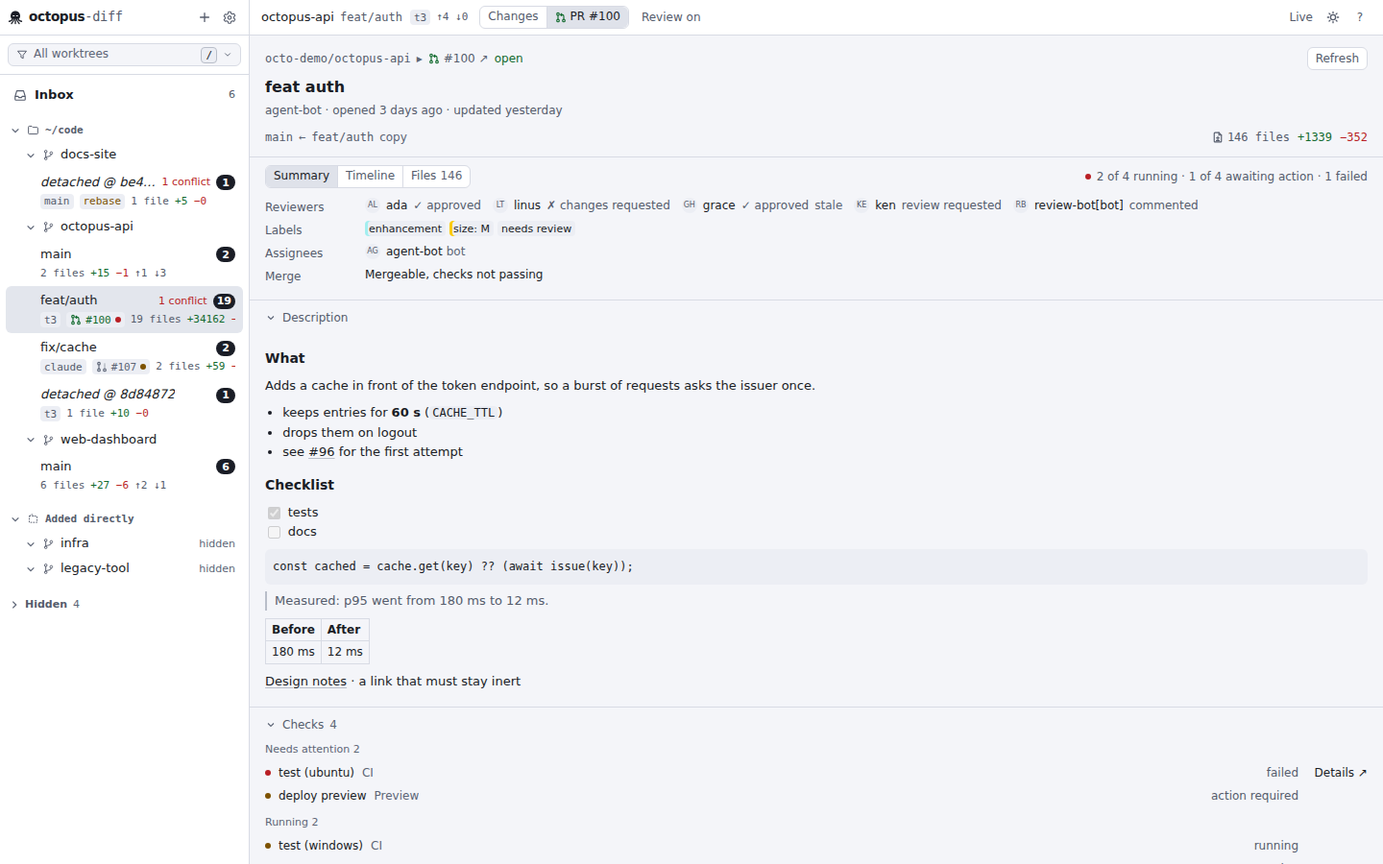
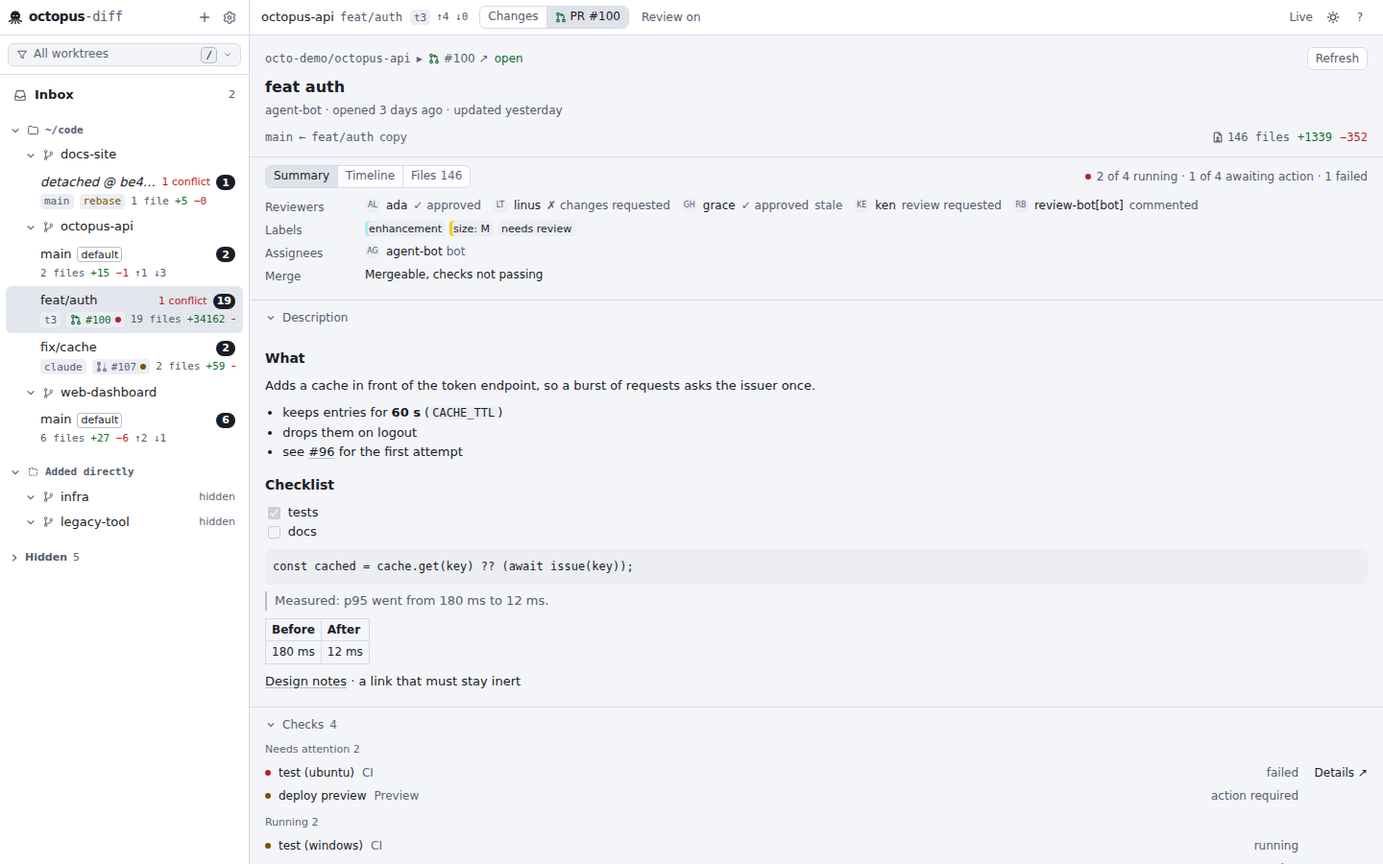
docs: overview lists design record, DECISIONS #127-#133, PLAN §4.2, FORGES, IDENTITY, README, screenshots (overview-branches new), report

diff --git a/docs/OVERVIEW-LISTS.md b/docs/OVERVIEW-LISTS.md
@@ -1,0 +1,126 @@
+# Project Overview lists and the default-branch marker (design)
+
+> Lead, 2026-11-09, branch `ux/toolbar-hierarchy` (on top of PR #2). Brief from the user:
+>
+> - Add a design highlight to the default branch when listing worktrees.
+> - In the repo (project) Overview: limit the worktree listing to 15 and paginate; limit the open pull requests to
+>   15 (keep the "more on GitHub" link); list the local branches that have no worktree; find out whether tab
+>   navigation would be better; use TanStack Table if and only if it makes the code easier to maintain.
+>
+> Decisions #127–#133 in `docs/DECISIONS.md`.
+
+## 1. What was there
+
+The project Overview was one long page: header, Local and Forge facts, the figures row, the worktree table (every
+worktree, recency order), then "Open pull requests" (the newest 20 the forge returned) and a `N more on github.com ↗`
+link. Nothing listed branches; the Local facts only counted them (`7 branches · 4 tags · 4 worktrees`). The
+worktree whose branch is the project's default branch looked like any other row; the main checkout carried a faint
+`main` word, so the default row read `main main`.
+
+## 2. The default-branch marker
+
+The default branch is the baseline: every `↑a ↓b`, "merged" and review range is measured against it. It now carries
+an **outlined ink chip, `default`** (`.od-chip-default`: transparent fill, `lineStrong` inset ring, `fg` text, 500
+weight), right after the branch name:
+
+- **Sidebar rows**: inline on the name line, so it costs no extra line (the meta line below is unchanged).
+- **Context bar**: before the other chips.
+- **Overview worktree table**: after the name; the row also gets `data-default="true"`.
+
+Why a chip and not a colour or an icon: the frame is achromatic (IDENTITY §3), so a hue is off the table; an icon
+would need a legend. The other chips are filled grey *facts* (`t3`, `claude`, `rebase`); the outline makes this one
+read as a *label* and keeps it from looking like a worktree source. It shows only when a worktree has the default
+branch checked out (`worktree.branch === project.defaultBranch`), never on detached heads.
+
+The faint `main` word in the Overview's first cell is gone: the **Source** column now says `main checkout` for the
+main worktree (it said `–`), so the default row reads `main [default] · main checkout` instead of `main main`.
+
+## 3. Tabs: yes
+
+**Question asked:** would tab navigation be better than the long page?
+
+With branches added, the page would stack three lists of up to 15 rows each under ~330 px of facts and figures;
+the open requests are two lines a row, so the last list started about three screens down, and each pager would sit
+far from the others. The three lists answer different questions (what is checked out, what is lying around, what is
+under review on the forge), and nobody reads them together. So the lists now sit behind a **segmented tab list**
+under the figures row:
+
+```
+Worktrees 4 | Branches 18 | Pull requests 27
+```
+
+- The **counts** keep the summary that the long page gave by scrolling: you see that 18 branches have no worktree
+  without opening the tab.
+- **Facts and figures stay above** the tabs: they are the summary of the project, not a list.
+- **Worktrees** is the default tab (the Overview's main job). The chosen tab is component state: it survives moving
+  between projects (compare the same list across repositories), not a reload. The page of each list starts over
+  per project.
+- **Pull requests** (or **Merge requests**) appears only when the forge returned repository data; **Branches** is
+  hidden only when a daemon answered without a branch list (older daemons).
+- **Keyboard** (the other reading of "tab navigation"): the tab list follows the WAI-ARIA tabs pattern, one Tab
+  stop for the list (roving `tabIndex`), `←`/`→` move and select, `Home`/`End` jump, each tab `aria-controls` its
+  `tabpanel`. Paging also bounds the Tab order inside a list to 15 row buttons. The Request view's
+  `Summary | Timeline | Files` used `role="tab"` without the keyboard model; it now uses the same component
+  (`components/Tabs.tsx`, `SegmentedTabs`).
+
+Not done: the tab in the URL or the view state (no deep links exist yet for any Overview state) and a palette
+command per tab. Both are small if wanted.
+
+## 4. Pagination
+
+- `components/Pager.tsx`: `usePage(items, 15)` slices an already-loaded list; `<Pager>` shows `16–30 of 42` and
+  previous / next ghost icon buttons, and renders nothing for a single page. The page **clamps** when the list
+  shrinks (live updates must not throw you back to page 1 on every poll).
+- **Worktrees**: 15 a page, the **default-branch worktree first**, then recency (DECISIONS #125). Pinning it first
+  keeps the baseline on page 1, where the highlight is useful; the sidebar keeps pure recency.
+- **Pull requests**: the newest **15** of what the forge returned (the daemon asks for 20), **no pager**: the forge
+  is where the rest lives, so the link stays: `12 more on github.com ↗` (`/pulls`, or `/-/merge_requests`). With
+  none open, the tab says so and links to the full list.
+- **Branches**: 15 a page.
+
+## 5. Branches without a worktree
+
+Data: `GitRepositoryInfo.branches` (contracts, additive, optional): every local branch, newest commit first, capped at
+`MAX_LISTED_BRANCHES` (500; `localBranches` keeps the full count and the tab says "only the 500 newest of N are
+read"). git-core fills it from the **same `for-each-ref`** it already ran for the counts (new atoms:
+`upstream:track,nobracket` and `contents:subject`) plus **one** `for-each-ref --merged=<default-oid> refs/heads/`.
+No new process per branch, nothing fetched. The web removes the branches some worktree has checked out.
+
+Each row: the branch (mono, with a copy button on hover / focus), the last commit (short sha and subject), when it
+moved, the upstream (`origin ↑2 ↓0`; the remote alone when the upstream has the branch's own name, the full name
+otherwise; `gone` in `warn` when the upstream was deleted and pruned; `local only` without one) and a state column:
+`merged` (reachable from the default branch: a clean-up candidate), `default` (the default branch itself, when no
+worktree has it checked out) and the open request whose head is that branch in this repository (`#300 ↗`, from the
+forge data already loaded, no extra query). Rows do not navigate: there is nothing to open without a worktree, and
+octopus-diff never creates one (read-only).
+
+## 6. TanStack Table: no
+
+Weighed objectively against what these tables need today:
+
+| Need | Plain JSX + `usePage` | TanStack Table v8 |
+|---|---|---|
+| Pagination | `usePage`: 10 lines, one hook shared by both paged lists | `getPaginationRowModel` + state wiring per table |
+| Sorting, filtering, column visibility, resizing, grouping | not needed (fixed orders: default first, recency, newest) | its real strength, unused |
+| Cells | JSX in place, read top to bottom | the same JSX moved into `columnHelper.accessor(..., { cell })` definitions, rendered back through `flexRender` |
+| Dependencies | none | `@tanstack/react-table` (+ `table-core`), a credits entry |
+| Tests and e2e | unchanged selectors | unchanged |
+
+Four small tables (folder repositories, project worktrees, branches, open requests), each with fixed columns and a
+fixed order. TanStack Table is headless: it would not remove a single cell renderer, it would add column definitions
+around them and a dependency, to replace a `slice`. **Revisit** when a table needs user sorting, column choice or
+filtering (for example sortable worktree columns), or when the tables start to share behaviour beyond paging; then
+the column-definition indirection pays for itself.
+
+## 7. Files
+
+- `packages/contracts`: `GitBranchInfoSchema`, `GitRepositoryInfo.branches?`, `MAX_LISTED_BRANCHES`; test ids
+  `overviewTab`, `overviewBranchRow`, `pager`, `defaultBranchChip`.
+- `packages/git-core/src/repository.ts`: branch list, `parseUpstreamTrack`; test in `test/repository.test.ts`.
+- `apps/web`: `components/Tabs.tsx` and `components/Pager.tsx` (new), `Overview.tsx` (`ProjectOverview` tabs,
+  `WorktreeTable`), `RepositoryInfo.tsx` (`LocalBranches`, `OpenRequests` capped), `WorktreeChips.tsx`
+  (`DefaultBranchChip`), `Sidebar.tsx`, `ContextBar.tsx`, `request/RequestView.tsx` (shared tabs), `lib/model.ts`
+  (`isDefaultBranch`, `defaultBranchFirst`, `branchesWithoutWorktree`), `styles.css` (`.od-chip-default`),
+  `bits.tsx` (chevrons), mock (branches for every demo project; 16 extra open requests on octopus-api so the cap
+  shows), `scripts/shots.ts` (`project-branches`, `project-requests`).
+- `e2e/tests/14-ui-forge-details.spec.ts`: opens the Pull requests tab before clicking a request.

diff --git a/docs/DECISIONS.md b/docs/DECISIONS.md
@@ -1646,3 +1646,50 @@ The user asked for worktree/branch rows in recency order. This reverses "rows st
      3–10-day stagger from its id, not from the seeded PRNG, so the rest of the dataset is unchanged; a simulated edit
      makes a worktree the newest. Unit tests: git-core `summary.test.ts` (reflog time, newest file, clamp, commit-date
      fallback, unborn, `stateHash` unchanged), web `model.test.ts` (order per project, nulls last, tie-break).
+
+## Project Overview lists and the default-branch marker (lead, 2026-11-09)
+
+Design record: `docs/OVERVIEW-LISTS.md`. Brief from the user: highlight the default branch where worktrees are
+listed; in the project Overview limit worktrees to 15 with pagination, limit open pull requests to 15 (keep the link
+to the forge), list local branches without a worktree, judge whether tabs would be better, and use TanStack Table
+only if it makes the code easier to maintain.
+
+127. **`default` chip.** The worktree that has the project's default branch checked out carries an outlined ink chip
+     (`.od-chip-default`) after its branch name in the sidebar row (inline, no extra line), the context bar and the
+     Overview worktree table. Not a hue (the frame is achromatic) and not an icon (it would need a legend); outlined
+     so it reads as a label, unlike the filled grey fact chips. The Overview's faint `main` word moves to the Source
+     column as `main checkout`, so the default row no longer reads `main main`.
+128. **Tabs on the project Overview.** Facts and figures stay on top; the lists move behind a segmented tab list
+     `Worktrees N | Branches N | Pull requests N` (Merge requests on GitLab; the requests tab only with forge
+     repository data, Branches hidden only when the daemon sends no branch list). Reason: three lists of up to 15
+     rows (two lines each for requests) put the last one three screens down, and they answer separate questions; the
+     counts keep the at-a-glance summary. Worktrees is the default tab; the chosen tab is component state that
+     survives switching projects, and each list's page starts over per project. The folder Overview is unchanged.
+129. **`SegmentedTabs` (`components/Tabs.tsx`) with the WAI-ARIA keyboard model**: one Tab stop (roving
+     `tabIndex`), `←`/`→` select, `Home`/`End`, `aria-controls` → `tabpanel`. The Request view's
+     `Summary | Timeline | Files` switches to it (it had `role="tab"` without the keys; ids and test ids unchanged).
+130. **Pagination, 15 rows (`components/Pager.tsx`).** Client-side `usePage` over the loaded list; `16–30 of 42`
+     with previous / next ghost icons, hidden for one page; the page clamps rather than resets when a live list
+     shrinks. Worktrees list the default-branch worktree first, then recency (#125), so the baseline stays on page 1;
+     the sidebar keeps pure recency. Open requests show the newest 15 with no pager and keep `N more on <host> ↗`
+     (the forge holds the rest; the daemon still asks for 20); none open says so with a link.
+131. **Local branches without a worktree.** `GitRepositoryInfo.branches` (contracts, additive, optional;
+     `GitBranchInfoSchema`, `MAX_LISTED_BRANCHES` = 500, newest commit first, `localBranches` stays the full count).
+     git-core reads it from the `for-each-ref` it already ran (adds `upstream:track,nobracket` and
+     `contents:subject`; git ≥ 2.31 folds a multi-line subject into one line) plus one
+     `for-each-ref --merged=<default oid> refs/heads/`. The web drops branches some worktree has checked out and
+     shows branch (copy on hover), last commit, when it moved, upstream (`origin ↑a ↓b`, `gone`, `local only`) and
+     a state column (`merged`, `default`, the open request on that head branch from the already-loaded forge data).
+     Rows do not navigate (no worktree to open; octopus-diff never creates one). Daemon unchanged: it passes
+     `info` through.
+132. **No TanStack Table.** Four small fixed-column, fixed-order tables; the only shared need is paging, which is a
+     ten-line hook. TanStack Table is headless, so it would keep every cell renderer, wrap them in column
+     definitions and `flexRender`, and add a dependency and a credits entry to replace a `slice`. Revisit when a
+     table needs user sorting, column choice or filtering.
+133. **Mock and tests.** Mock repository info lists branches for every demo project (18 without a worktree on
+     octopus-api so the Branches tab pages; merged, gone and local-only kinds) and octopus-api has 16 more open
+     requests (27 in all, so the cap and `12 more` show). Tests: git-core `repository.test.ts` (subject folding,
+     upstream ahead/gone, merged); web `repository-info.test.tsx` (tabs and arrow keys, default row first with its
+     chip, Branches pages 15 + 3, requests capped at 15 with the forge link, worktree pager on a 20-worktree large
+     dataset), `model.test.ts` (helpers). e2e `14-ui-forge-details` opens the Pull requests tab first. New shot
+     states `project-branches` and `project-requests` in `apps/web/scripts/shots.ts`.

diff --git a/docs/reports/overview-lists.md b/docs/reports/overview-lists.md
@@ -1,0 +1,62 @@
+# overview-lists report
+
+Lead, 2026-11-09, on branch `ux/toolbar-hierarchy` (PR #2), after rebasing the local commits onto
+`origin/ux/toolbar-hierarchy` (`c198638`, a review commit pushed from another session). Design record:
+`docs/OVERVIEW-LISTS.md`; DECISIONS #127–#133.
+
+## Shipped
+
+- **`default` chip** (`DefaultBranchChip`, `.od-chip-default`) on the worktree that has the project's default branch
+  checked out: sidebar rows (inline after the name), the context bar and the Overview worktree table. The Overview's
+  Source column says `main checkout` for the main worktree (the old faint `main` word is gone).
+- **Project Overview tabs** `Worktrees N | Branches N | Pull requests N` under the facts and figures
+  (`Overview.tsx` `ProjectOverview`), built on the new `components/Tabs.tsx` `SegmentedTabs` (WAI-ARIA keyboard
+  model: roving tab stop, ←/→, Home/End, `aria-controls` → `tabpanel`). The Request view's
+  `Summary | Timeline | Files` uses the same component.
+- **Pagination**, 15 rows (`components/Pager.tsx`: `usePage`, `Pager`): worktrees (default-branch worktree first,
+  then recency) and branches. Open requests show the newest 15 and `N more on <host> ↗`, no pager.
+- **Branches without a worktree** (`RepositoryInfo.tsx` `LocalBranches`): branch with copy button, last commit,
+  updated, upstream (`origin ↑a ↓b`, `gone`, `local only`), state (`merged`, `default`, the open request on that
+  branch). Data: `GitRepositoryInfo.branches` from git-core `readRepositoryInfo` (same `for-each-ref` plus one
+  `for-each-ref --merged`).
+- **TanStack Table evaluated, not adopted** (DECISIONS #132; `docs/OVERVIEW-LISTS.md` §6).
+
+## Verification
+
+| Command | Result |
+|---|---|
+| `pnpm check` | lint (Biome + `credits:check`), typecheck and build passed; tests stopped at git-core: `readonly.test.ts > never writes to any repository` timed out at 5000 ms (174/175). That's the known load-dependent timeout (fix in PR #3); the test doesn't call `readRepositoryInfo`. |
+| `pnpm --filter @octopus-diff/git-core test` (alone) | 15 files, 175 passed |
+| per-package `test`: daemon / web / cli / fixtures / e2e-unit | 187 / 217 / 139 / 48 / 5 passed, 0 failed |
+| `pnpm test:e2e` | 83 passed, 0 failed (3.7 min), including `14-ui-forge-details` through the new Pull requests tab |
+| `pnpm --filter @octopus-diff/web shots` (mock; project, project-branches, project-requests, folder, request, request-conversation, hover-card, worktree; both brand themes, 1440 and 960) | inspected; at 960 the Branches table first squeezed the subject to one letter, fixed by showing only the remote when the upstream mirrors the branch name |
+
+## Decisions
+
+DECISIONS #127–#133: the chip (#127), tabs (#128), `SegmentedTabs` (#129), pagination and the 15-request cap (#130),
+the branch list (#131), no TanStack Table (#132), mock and tests (#133).
+
+## Contract changes
+
+Additive, commit `contracts: GitRepositoryInfo.branches …`: `GitBranchInfoSchema`, optional
+`GitRepositoryInfo.branches`, `MAX_LISTED_BRANCHES` (500); test ids `overviewTab`, `overviewBranchRow`, `pager`,
+`defaultBranchChip`.
+
+## Dependencies
+
+None added or removed (TanStack Table rejected), so `pnpm credits` was not needed; `credits:check` passed.
+
+## Known gaps
+
+- The chosen Overview tab isn't in the view state or URL, and there's no palette command per tab.
+- The branch list is capped at 500 (newest); the tab says so when the cap applies.
+- `docs/screenshots/forges-*.png` come from a live-forge run and still show the old toolbar (gap carried over from the
+  ux-toolbar report). The fixture-based README screenshots (`pnpm --filter @octopus-diff/e2e screenshots`) were not
+  regenerated in this round; only the sidebar's new `default` chip would differ.
+- `git-core` `readonly.test.ts` can still time out under the full parallel run until PR #3 lands.
+
+## Notes for integration
+
+- Daemon unchanged: it passes `info` through, and older git-cores simply omit `branches` (the Branches tab hides).
+- e2e `14-ui-forge-details` now clicks the Pull requests tab before an open request; any new spec that clicks
+  `repo-open-request` must do the same.

diff --git a/docs/design/IDENTITY.md b/docs/design/IDENTITY.md
@@ -116,7 +116,7 @@ Shared by all themes; defined once in `apps/web/src/styles.css` as `--od-*` cust
 
 - **Spacing**: a 4 px scale (`--od-space-1` 4 px … `--od-space-6` 24 px). Rows are 26 px (compact) / 30 px (comfortable); group headers 30 px.
 - **Radius**: `--od-radius-sm` 4 px (chips, kbd, rows), `--od-radius-md` 6 px (buttons, inputs, menus), `--od-radius-lg` 10 px (dialogs, the palette). Nothing is a pill except the unreviewed count badge (`.od-pill`).
-- **Controls**: one recipe each, defined once in `styles.css` under `@layer components` so a utility on the element still wins. `.od-btn` (24 px, `line` border, `surface` fill, `muted` text; hover `hover`/`fg`; `:active` `selected`; `aria-pressed`/`aria-checked` = `accentSoft` + `lineStrong`; disabled `faint` text, default cursor), with `od-btn-primary` (ink fill, explicit disabled fill and ink, never opacity alone), `od-btn-ghost` (no border) and `od-btn-danger`. `.od-input` (24 px, `canvas` fill, `line` border; the focus ring is the global outline, never a border change). `.od-chip` (16 px, `raised` fill, no border, 11 px) for `main`, a worktree source, an in-progress operation, `review off`, and "where a setting lives". Rows in Overview tables are reachable by keyboard: the first cell is a real button; the row only adds a pointer convenience.
+- **Controls**: one recipe each, defined once in `styles.css` under `@layer components` so a utility on the element still wins. `.od-btn` (24 px, `line` border, `surface` fill, `muted` text; hover `hover`/`fg`; `:active` `selected`; `aria-pressed`/`aria-checked` = `accentSoft` + `lineStrong`; disabled `faint` text, default cursor), with `od-btn-primary` (ink fill, explicit disabled fill and ink, never opacity alone), `od-btn-ghost` (no border) and `od-btn-danger`. `.od-input` (24 px, `canvas` fill, `line` border; the focus ring is the global outline, never a border change). `.od-chip` (16 px, `raised` fill, no border, 11 px) for `main`, a worktree source, an in-progress operation, `review off`, `merged`, and "where a setting lives"; `.od-chip-default` (transparent, `lineStrong` inset ring, `fg` text, 500) only for `default`, the worktree or branch that is the project's default branch. Rows in Overview tables are reachable by keyboard: the first cell is a real button; the row only adds a pointer convenience.
 - **Elevation**: three levels. 0 = flat with a hairline (panes); 1 = `raised` background plus hairline (headers, chips); 2 = `overlay` background, `lineStrong` border and `--od-shadow-2` (`0 8px 24px rgb(0 0 0 / 0.35)` dark, `0 8px 24px rgb(20 23 38 / 0.14)` light) for dialogs, menus and the palette. No other shadows.
 - **Motion**: `--od-motion-fast` 120 ms and `--od-motion` 180 ms, `ease-out`. Used for fade/slide-in of menus, toasts and dialogs and for the activity pulse. Everything is wrapped in `@media (prefers-reduced-motion: no-preference)`, and a global `prefers-reduced-motion: reduce` rule also switches off Tailwind's transition utilities: with reduced motion there is no animation at all, only state changes.
 - **Focus ring**: 2 px solid `focus`, 1 px offset, on `:focus-visible` only, instant. Inside dark surfaces the ring colour is lighter than the accent so it keeps 3:1 against `selected`. Text selection is `accentSoft`; the caret is `fg`.

diff --git a/docs/FORGES.md b/docs/FORGES.md
@@ -23,7 +23,7 @@ many-worktree tool needs.
 | Sidebar row, Overview row | Chip after the branch: PR/MR glyph (open, draft, merged, closed), `#123` / `!123`, a CI dot (green passed, red failed, amber running). Tooltip: title, `head → base`, author, CI counts, review, conflicts, comments, "head differs from HEAD". |
 | Context bar (selected worktree) | The `Changes \| PR #123` switch opens the Request tab; beside it, on the Changes tab, a link to the request on its forge with its state words (`open  changes requested  out of sync ↗`). |
 | Sidebar hover card | A request block from the batch data (no extra query): glyph, number, state, title, `head → base`, author, `N files +a −d`, `21/22 checks passed · 1 failing`, review, merge state, comments, updated, and the out-of-sync explanation. |
-| Project Overview | A **Pull request** column (chip, title, review word). **Repository information**: local facts (remotes with credentials removed, default branch with `↑a ↓b` against its upstream as of the last fetch, last commit, branch/tag/worktree counts, last activity) and forge facts (`host/owner/name ↗`, description, visibility, archived, fork of, license, language, topics, open request and issue counts linking to the forge, default-branch CI, pushed). **Open pull requests** below the worktree table (newest 20): rows checked out locally open that worktree's Request tab, the others open the forge. |
+| Project Overview | A **Pull request** column (chip, title, review word). **Repository information**: local facts (remotes with credentials removed, default branch with `↑a ↓b` against its upstream as of the last fetch, last commit, branch/tag/worktree counts, last activity) and forge facts (`host/owner/name ↗`, description, visibility, archived, fork of, license, language, topics, open request and issue counts linking to the forge, default-branch CI, pushed). **Open pull requests** in their own Overview tab (the newest 15 of the 20 the daemon asks for, then `N more on <host> ↗`; `docs/OVERVIEW-LISTS.md`): rows checked out locally open that worktree's Request tab, the others open the forge. |
 | Folder Overview | Columns `Default branch` (with ahead/behind), `Last commit`, `Forge` and `PRs`, and roll-ups `open pull requests` and `need attention` (failing CI, changes requested or conflicts). No forge query: local facts plus the batch data. |
 | Request tab | Header (repository ▸ `#123 ↗`, title, author · opened · updated, `base ← head` with copy, `N files +a −d`, out of sync). `Summary` (reviewers with `stale`, labels as ink chips with a colour swatch, assignees, merge state; Description in markdown; Checks grouped *Needs attention / Running / Passed*, open only when something needs attention; Conversation), `Timeline` (opened, commits, comments, reviews, threads, merged/closed; newest-first toggle) and `Files` (path, status letter, `+a −d`, `changed here` when the worktree also changes it: click to see the local diff). |
 | Settings → Forges | On/off switch, "Load images from the forges", `gh`/`glab` status (version, signed-in hosts, install/login hint), each repository's forge and status, host overrides, "Check again". |

diff --git a/README.md b/README.md
@@ -183,11 +183,16 @@ Settings → Folders → **Start browsing in** sets where the picker opens (defa
   ![The Request tab: summary, reviewers, description and checks](docs/screenshots/request-dark.png)
 - **Repository information on the Overviews.** A project's Overview shows its remotes, default branch
   (with ahead/behind as of the last fetch), last commit, branch and tag counts, and, from the forge, the
-  description, visibility, open PR and issue counts, default-branch CI and the newest open requests,
-  each linked to its worktree when you have it checked out. A folder's Overview adds the default branch,
-  last commit, forge and open requests per repository without asking any forge.
+  description, visibility, open PR and issue counts and default-branch CI. Below, three tabs with
+  counts, 15 rows a page: **Worktrees** (the one on the default branch first, marked `default`, as in
+  the sidebar), **Branches** (local branches no worktree has checked out, with upstream state, whether
+  they are merged and their open PR) and **Pull requests** (the newest 15, each linked to its worktree
+  when you have it checked out, then a link to the rest on the forge). A folder's Overview adds the
+  default branch, last commit, forge and open requests per repository without asking any forge.
 
-  ![The project Overview with local and forge facts and open pull requests](docs/screenshots/overview-project-dark.png)
+  ![The project Overview with local and forge facts and its worktrees](docs/screenshots/overview-project-dark.png)
+
+  ![The Branches tab: local branches without a worktree](docs/screenshots/overview-branches-dark.png)
 - **Themes.** Octopus Dark, Octopus Light and a high-contrast theme; "System" follows the OS. Themes
   are plain data files, so adding one is a one-file change: see [`docs/design/THEMING.md`](docs/design/THEMING.md).
   The identity and palette are described in [`docs/design/IDENTITY.md`](docs/design/IDENTITY.md).

diff --git a/docs/PLAN.md b/docs/PLAN.md
@@ -134,7 +134,11 @@ right, the refresh indicator, theme and help. The **file pane header** holds the
 tree-view toggles and **Review N** (`⇧R`; undo restores the bookmark too). The **diff header** holds the file's
 identity and, at the right, unified / split and whitespace, `More context` / `Expand all`, the `⋯` menu and the one
 verb **Reviewed** (`r`). A control sits over what it changes. Folder and project Overviews show repository
-information (local git facts; the project Overview also the forge's facts and open requests).
+information (local git facts; the project Overview also the forge's facts). The project Overview's lists sit behind
+`Worktrees | Branches | Pull requests` tabs with counts, 15 rows a page: worktrees (the default-branch one first),
+local branches no worktree has checked out, and the newest 15 open requests with a link to the rest on the forge
+(`docs/OVERVIEW-LISTS.md`). The worktree with the default branch checked out carries a `default` chip wherever
+worktrees are listed.
 
 Copy (`docs/COPY-TOOLS.md`, web only): a "Copy" group in the worktree menus (sidebar, Overview, Inbox group
 headers: branch name, worktree path, commit id), a file menu on list and tree rows (path, old path, name, absolute
